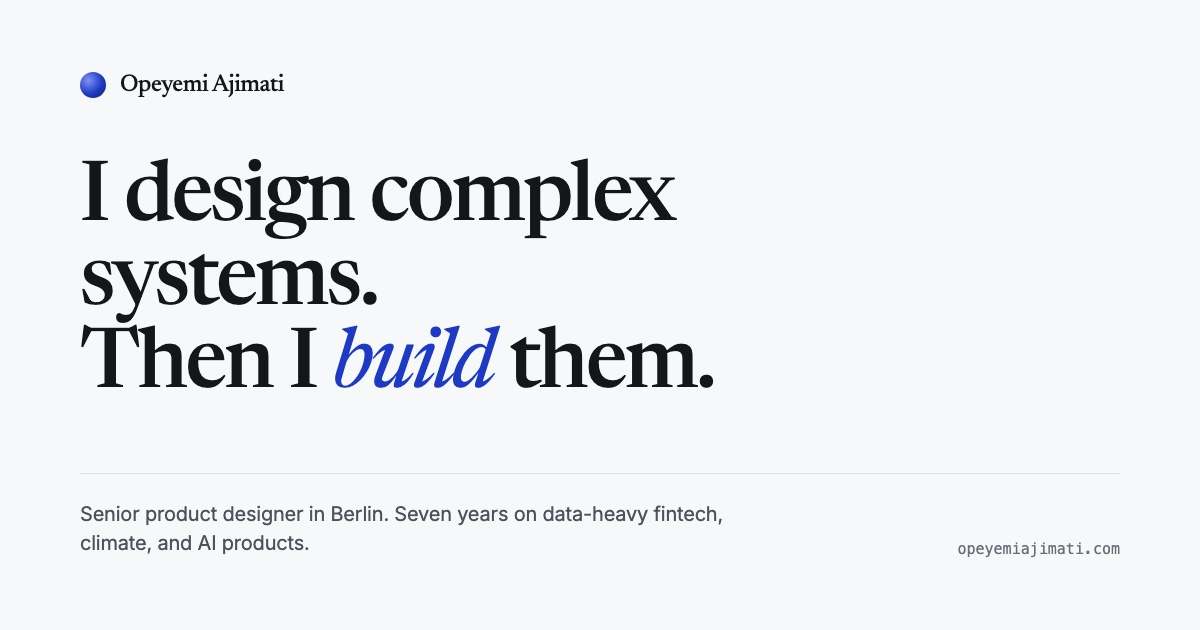
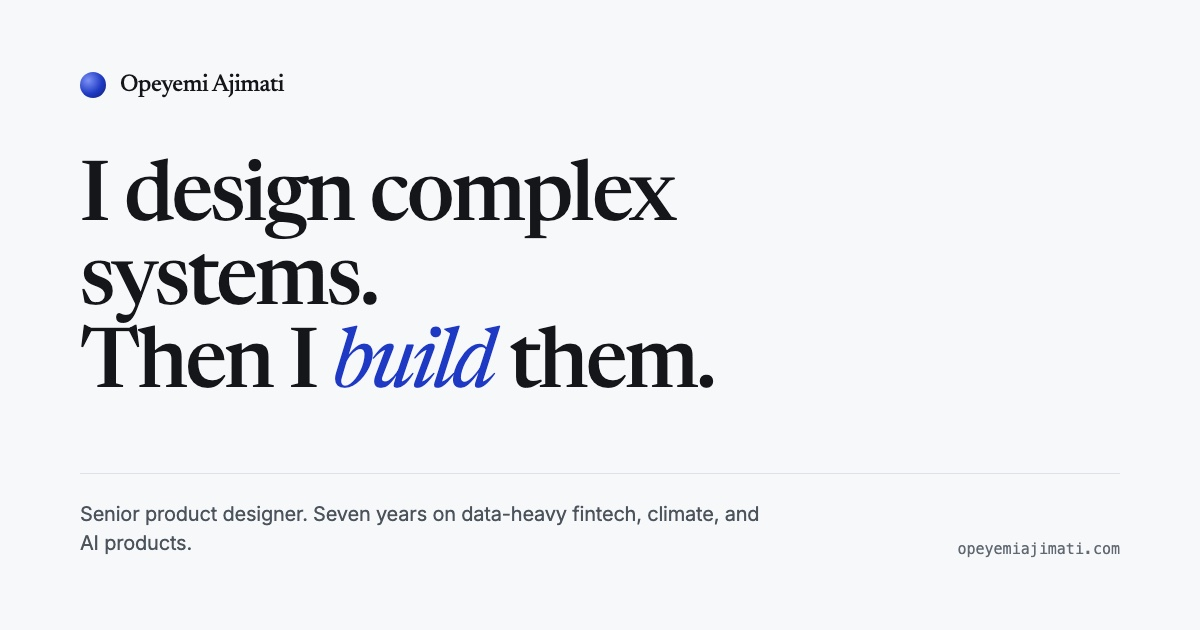
Remove location from the portfolio's positioning
Berlin and Germany appeared in 13 places and pinned the positioning to one city,
which narrows the reader's assumption about where the work can happen. Removed
from: the page title, meta description, OG and Twitter titles, the OG image alt,
the hero line, the About lead, the About panel row, the footer brand line, the
footer availability line, the footer baseline, and the web manifest.

Dropped the schema.org PostalAddress block rather than trying to express a
region in it, and added "working across Europe" to the Person description so
search engines still get a geography signal without a city. Verified the JSON-LD
and the manifest still parse.

Removed the location column from the work history, which also drops Frankfurt
and Lagos. Availability now reads "Anywhere in Europe, remote or on site".

Regenerated the OG card, which had "Senior product designer in Berlin" baked
into the pixels and would have kept saying it on every shared link.

Neutralised two Renuir project references that named German cities: the launch
city and the interview locations, now "three European cities".

Deliberately kept: "German law (BGB sections 965-984)" and mapping regulation
"across Germany and the EU" in the Renuir case study. Those describe a
jurisdiction that was researched, not a place of residence, and the statute
citation is one of the strongest specific research artefacts on the site.

Changed region(s): [[0.0617, 0.7841, 0.6475, 0.8746]]

diff --git a/index.html b/index.html
@@ -4,8 +4,8 @@
 <meta charset="UTF-8">
 <meta name="viewport" content="width=device-width, initial-scale=1.0">
 
-<title>Opeyemi Ajimati - Senior Product Designer & AI Design Engineer · Berlin</title>
-<meta name="description" content="Opeyemi Ajimati is a Senior Product Designer and AI Design Engineer in Berlin with 7+ years across fintech, climate, health tech, and data-heavy enterprise platforms, agency and in-house. A hands-on builder who prototypes in code, designs human-in-the-loop AI, and ships working products.">
+<title>Opeyemi Ajimati - Senior Product Designer & AI Design Engineer</title>
+<meta name="description" content="Opeyemi Ajimati is a Senior Product Designer and AI Design Engineer with 7+ years across fintech, climate, health tech, and data-heavy enterprise platforms, agency and in-house. A hands-on builder who prototypes in code, designs human-in-the-loop AI, and ships working products.">
 <meta name="author" content="Opeyemi Ajimati">
 <meta name="robots" content="index,follow,max-image-preview:large,max-snippet:-1,max-video-preview:-1">
 <meta name="googlebot" content="index,follow">
@@ -17,7 +17,7 @@
 <!-- Open Graph -->
 <meta property="og:type" content="website">
 <meta property="og:site_name" content="Opeyemi Ajimati - Portfolio">
-<meta property="og:title" content="Opeyemi Ajimati - Senior Product Designer & AI Design Engineer, Berlin">
+<meta property="og:title" content="Opeyemi Ajimati - Senior Product Designer & AI Design Engineer">
 <meta property="og:description" content="7+ years across fintech, climate, health, and enterprise, agency and in-house. A designer who prototypes in code, builds human-in-the-loop AI, and ships working products. Case studies inside.">
 <meta property="og:url" content="https://opeyemiajimati.com/">
 <meta property="og:image" content="https://opeyemiajimati.com/og-image.png">
@@ -25,12 +25,12 @@
 <meta property="og:image:type" content="image/png">
 <meta property="og:image:width" content="1200">
 <meta property="og:image:height" content="630">
-<meta property="og:image:alt" content="Opeyemi Ajimati - Designing complex systems that feel simple. Senior Product Designer, Berlin.">
+<meta property="og:image:alt" content="Opeyemi Ajimati - Designing complex systems that feel simple. Senior Product Designer.">
 <meta property="og:locale" content="en_US">
 
 <!-- Twitter / X -->
 <meta name="twitter:card" content="summary_large_image">
-<meta name="twitter:title" content="Opeyemi Ajimati - Senior Product Designer & AI Design Engineer, Berlin">
+<meta name="twitter:title" content="Opeyemi Ajimati - Senior Product Designer & AI Design Engineer">
 <meta name="twitter:description" content="A designer who prototypes in code, builds human-in-the-loop AI, and ships. Fintech, climate, and enterprise UX.">
 <meta name="twitter:image" content="https://opeyemiajimati.com/og-image.png">
 <meta name="twitter:image:alt" content="Opeyemi Ajimati - Senior Product Designer portfolio cover">
@@ -61,12 +61,7 @@
       "url": "https://opeyemiajimati.com/",
       "image": "https://opeyemiajimati.com/og-image.png",
       "jobTitle": "Senior Product Designer & AI Design Engineer",
-      "description": "Senior Product Designer and AI Design Engineer with 7+ years across fintech, climate, health tech, and data-heavy enterprise platforms. Prototypes in code and ships working products.",
-      "address": {
-        "@type": "PostalAddress",
-        "addressLocality": "Berlin",
-        "addressCountry": "DE"
-      },
+      "description": "Senior Product Designer and AI Design Engineer working across Europe, with 7+ years across fintech, climate, health tech, and data-heavy enterprise platforms. Prototypes in code and ships working products.",
       "knowsAbout": [
         "Product Design",
         "Design Engineering",
@@ -322,7 +317,7 @@ h1{
 .exp-list{border-top:1px solid var(--line)}
 .exp{
   padding:28px 0;border-bottom:1px solid var(--line);
-  display:grid;grid-template-columns:160px 1fr 100px;gap:32px;align-items:start;
+  display:grid;grid-template-columns:160px 1fr;gap:32px;align-items:start;
 }
 .exp-d{font-family:var(--mono);font-size:12px;color:var(--ink-3);font-variant-numeric:tabular-nums;line-height:1.5;padding-top:4px}
 .exp-r{font-family:var(--serif);font-size:20px;font-weight:500;letter-spacing:-0.02em;margin-bottom:4px;line-height:1.25}
@@ -458,7 +453,7 @@ footer{
 <section class="hero">
   <div class="w">
     <h1 class="rv">I design complex systems.<br>Then I <em>build</em> them.</h1>
-    <p class="hero-p rv">Senior product designer in Berlin, seven years on data-heavy fintech, climate, and AI products. I prototype in code and ship.</p>
+    <p class="hero-p rv">Senior product designer, seven years on data-heavy fintech, climate, and AI products. I prototype in code and ship.</p>
     <div class="btns rv">
       <a href="#work" class="btn btn-p">View selected work <span class="ic">↗</span></a>
       <a href="#contact" class="btn">Get in touch</a>
@@ -649,7 +644,7 @@ footer{
     </div>
     <div class="about-wrap">
       <div>
-        <p class="about-lead rv">Senior product designer and AI design engineer in Berlin, <em>seven years</em> in. My work lives on platforms heavy with data and rules: fintech, climate, health, and AI, in-house and at agencies. I design the system, prototype it in code, and ship, most recently Anstoss, an Android app I built solo.</p>
+        <p class="about-lead rv">Senior product designer and AI design engineer, <em>seven years</em> in. My work lives on platforms heavy with data and rules: fintech, climate, health, and AI, in-house and at agencies. I design the system, prototype it in code, and ship, most recently Anstoss, an Android app I built solo.</p>
         <div class="about-cols rv">
           <div class="about-col">
             <h4>How I work</h4>
@@ -662,7 +657,7 @@ footer{
         </div>
       </div>
       <dl class="about-meta rv">
-        <div class="am-row"><dt>Based in</dt><dd>Berlin <span class="qual">open to remote in the EU</span></dd></div>
+        <div class="am-row"><dt>Working</dt><dd>Across Europe <span class="qual">remote or relocating</span></dd></div>
         <div class="am-row"><dt>Currently</dt><dd>Senior Product Designer, SBTi</dd></div>
         <div class="am-row"><dt>Building</dt><dd>Anstoss <span class="qual">Android and iOS</span></dd></div>
         <div class="am-row"><dt>Previously</dt><dd>Universal Investment, Deveote</dd></div>
@@ -686,7 +681,6 @@ footer{
           <div class="exp-r">Senior Product Designer</div>
           <div class="exp-c">Science Based Targets initiative</div>
         </div>
-        <div class="exp-loc">Berlin</div>
       </div>
       <div class="exp rv">
         <div class="exp-d">2019 to 2022</div>
@@ -694,7 +688,6 @@ footer{
           <div class="exp-r">UX Designer</div>
           <div class="exp-c">Universal Investment</div>
         </div>
-        <div class="exp-loc">Frankfurt</div>
       </div>
       <div class="exp rv">
         <div class="exp-d">2017 to 2019</div>
@@ -702,7 +695,6 @@ footer{
           <div class="exp-r">UX Designer</div>
           <div class="exp-c">Deveote Technologies</div>
         </div>
-        <div class="exp-loc">Lagos</div>
       </div>
     </div>
   </div>
@@ -713,7 +705,7 @@ footer{
   <div class="w">
     <div class="cta-card rv">
       <h2>If the problem is hard,<br>I'm <em>interested</em>.</h2>
-      <p>I'm open to senior product design roles across Europe, with a soft spot for fintech, climate, health, and AI. If that's the kind of work you have, let's talk.</p>
+      <p>I'm open to senior product design roles anywhere in Europe, with a soft spot for fintech, climate, health, and AI. If that's the kind of work you have, let's talk.</p>
       <div class="links">
         <a href="mailto:o.ajimati@yahoo.com" class="cta-link primary">
           <svg viewBox="0 0 24 24" fill="none" stroke="currentColor" stroke-width="1.7" stroke-linecap="round" stroke-linejoin="round"><rect x="3" y="5" width="18" height="14" rx="2"/><path d="M3 7l9 7 9-7"/></svg>
@@ -742,7 +734,7 @@ footer{
   <div class="foot-wrap">
     <div class="foot-brand">
       <h3><span class="mark"></span> Opeyemi Ajimati</h3>
-      <p>Senior product designer and AI design engineer in Berlin. I design complex systems, then build them.</p>
+      <p>Senior product designer and AI design engineer. I design complex systems, then build them.</p>
     </div>
     <div class="foot-col">
       <h5>Elsewhere</h5>
@@ -757,13 +749,12 @@ footer{
       <h5>Availability</h5>
       <ul>
         <li><a href="#contact" class="foot-status">Open to senior roles</a></li>
-        <li>Berlin and remote in the EU</li>
+        <li>Anywhere in Europe, remote or on site</li>
       </ul>
     </div>
   </div>
   <div class="foot-bottom">
     <span>© 2026 Opeyemi Ajimati</span>
-    <span>Berlin, Germany</span>
   </div>
 </footer>
 

diff --git a/projects/renuir.html b/projects/renuir.html
@@ -206,7 +206,7 @@ hr{border:none;height:1px;background:var(--bd);margin:48px 0}
 <div class="wh-item"><strong>Who</strong><p>People who lose personal belongings in public spaces, transit, and events, plus finders who want to return items without hassle</p></div>
 <div class="wh-item"><strong>What</strong><p>A mobile platform that connects lost items with their owners through AI matching, ownership verification, and coordinated return</p></div>
 <div class="wh-item"><strong>When</strong><p>Immediately after losing or finding an item, when urgency is highest and existing systems fail to provide any clear next step</p></div>
-<div class="wh-item"><strong>Where</strong><p>Public transit, airports, events, cafes, and shared spaces across European cities, starting with Berlin</p></div>
+<div class="wh-item"><strong>Where</strong><p>Public transit, airports, events, cafes, and shared spaces across European cities</p></div>
 <div class="wh-item"><strong>Why</strong><p>Most lost items are never returned. Lost-and-found offices operate in silos, finders have no clear way to return items, and no cross-organization protocol exists</p></div>
 <div class="wh-item"><strong>How</strong><p>Camera-first item reporting, AI photo matching, multi-step ownership verification, safe meetup coordination, and shipping integration</p></div>
 </div>
@@ -228,7 +228,7 @@ hr{border:none;height:1px;background:var(--bd);margin:48px 0}
 <p class="sp">I spent 6 weeks in discovery before designing a single screen. I interviewed people who lost items, people who found items, and lost-and-found office operators. I mapped the regulatory landscape across Germany and the EU to understand legal requirements around found property.</p>
 
 <div class="cg">
-<div class="cd"><h4>User interviews (n=16)</h4><p>Spoke with 8 "losers" (people who lost items), 4 "finders," and 4 lost-and-found operators across Berlin, Munich, and Amsterdam. Key finding: the emotional distress of losing items is severely underestimated. It is not just about the object's monetary value.</p></div>
+<div class="cd"><h4>User interviews (n=16)</h4><p>Spoke with 8 "losers" (people who lost items), 4 "finders," and 4 lost-and-found operators across three European cities. Key finding: the emotional distress of losing items is severely underestimated. It is not just about the object's monetary value.</p></div>
 <div class="cd"><h4>Competitive analysis</h4><p>Analyzed 8 solutions (iLost, Tile, Foundit, BVG Fundburo). Most were device-only (Tile) or single-organization (iLost). None offered a true cross-organization protocol. This validated our infrastructure-first approach.</p></div>
 <div class="cd"><h4>Regulatory mapping</h4><p>German law (BGB sections 965-984) defines legal obligations for finders. EU GDPR adds complexity around sharing personal data between parties. These constraints directly shaped the ownership verification and data-handling flows.</p></div>
 <div class="cd"><h4>Service blueprint</h4><p>Created an end-to-end blueprint mapping frontstage interactions, backstage processes, and support systems. This revealed the 7 critical handoff points where items typically get lost in the current system.</p></div>
